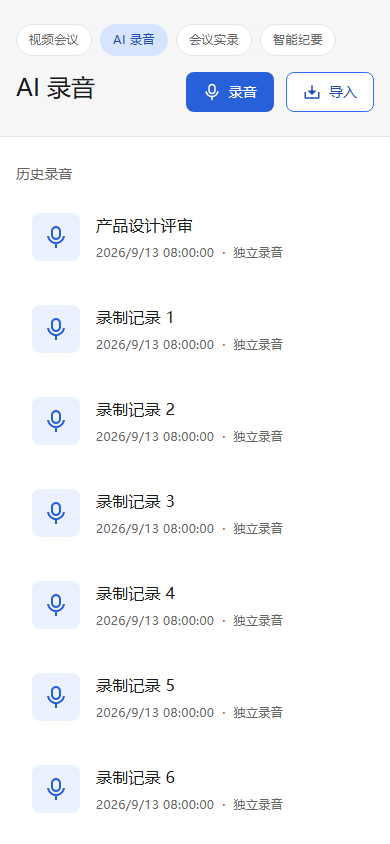
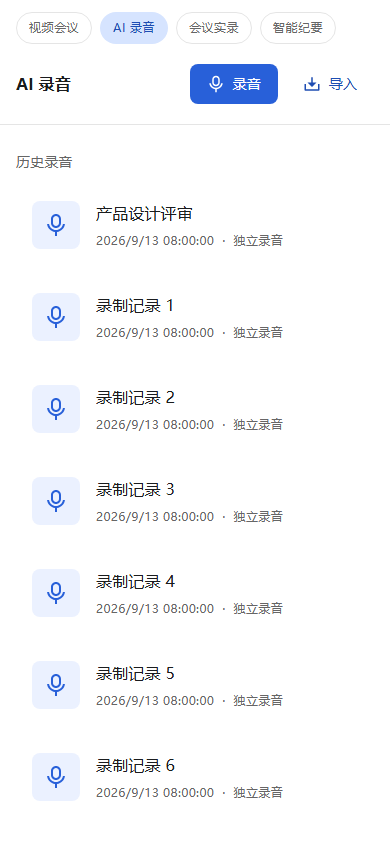
refactor(meetings): restyle the page headers after the chat title bar
参考「消息」模块聊天窗口的标题栏(ChatPane 的 header:paddingX 1rem /
paddingY 0.625rem / 1px 底分割线 / min-height 3rem / 16px bold 标题 /
32px 无边框图标钮),把会议模块页头那一栏收成同一套。改动都在共享样式
libraryStyles,四个栏目页 + 三个次级页一起生效:

- 页头底色:透出页壳浅灰 -> surface.default(白)+ 1px border.subtle 分割线;
- 标题:headlineSmall 24px/400 -> titleMedium 16px/600;
- 垂直内边距:paddingTop xl(24) -> md(12);
- 标题行:align-items flex-start -> center,加 min-height
  controlHeight.large(48),下边距 24 -> 16;
- 动作间距:md(12) -> sm(8);
- 次操作按钮:secondary(线框)-> secondaryText(无边框 + 蓝字,hover 浅底)。

主操作仍是 primary 实心(快速会议 / 录音),文字标签也保留 —— 聊天窗口那栏
是纯图标,但四个页面的按钮带标签是前面几轮特意加的,不在这轮回退。

一处有意偏离 App 规则:page-backgrounds.md §1 写的是「一级页 = 顶部固定区
浅灰 + 下方滚动区白」,这轮按聊天窗口标题栏把固定区改成白。页壳本身仍是
surface.canvas,滚到尽头露出的仍是浅灰。

走查更新/新增:页头那一栏实测底色必须是白、标题 16px 且 font-weight 600、
页头无副标题、页壳与滚动区底色不变。

验证:vitest 160 文件 1033 条、lint / prettier / color / foundation /
tsc / build 全绿;check-meeting-pages-ui.mjs 与 check-meeting-library-ui.mjs
通过;四页桌面 + 390px + 深色截图已更新。

diff --git a/src/frontend/src/features/meetings/components/libraryStyles.ts b/src/frontend/src/features/meetings/components/libraryStyles.ts
@@ -35,11 +35,18 @@ export const pageShell = (surface: 'canvas' | 'default' = 'canvas') =>
 /**
  * 列表以上部分：固定不滚（列表页）。底边分隔线把「固定的工具区」和「滚动的列表」
  * 分开，与任务列表（TasksRoute 的 header/modeTabs）同一套做法。
+ *
+ * **底色 2026-09-17 改为白**（`surface.default`），对齐「消息」模块聊天窗口的标题栏
+ * （`ChatPane` 的 header：paddingX 1rem / paddingY 0.625rem / 1px 底分割线 /
+ * min-height 3rem）：面板头不再铺一级页的浅灰画布色，而是与内容同色，只靠那 1px
+ * 分层。页壳仍是 `surface.canvas`（`pageShell('canvas')`），所以滚动到尽头时露出的
+ * 仍是浅灰 —— 这是与 App「一级页」规则的一处**有意偏离**，以聊天窗口标题栏为准。
  */
 export const pageFixedTop = css({
   flexShrink: 0,
   paddingX: 'lg',
-  paddingTop: 'xl',
+  paddingTop: 'md',
+  backgroundColor: 'surface.default',
   borderBottom: '1px solid token(colors.border.subtle)',
 })
 
@@ -93,14 +100,20 @@ export const backLink = css({
 /**
  * 页面主标题。四个栏目页(home 的 h1、录音、实录、纪要)共用一档,
  * 之前是 1.5rem/bold 与 1.25rem 各自手写,并排切栏目时标题会跳字号。
+ *
+ * **2026-09-17 收到 16px**(`headlineSmall` 24px → `titleMedium`)并加一档字重,
+ * 对齐「消息」模块聊天窗口标题栏的标题(16px / bold):那一栏是面板头,字号比页面
+ * 大标题小一档,页头整体因此矮下来。字重写在这里(而不是新造一个 textStyle):
+ * `textStyle` 展开后本行的显式 `fontWeight` 在后,取的就是 600。
  */
 export const pageTitle = css({
-  textStyle: 'headlineSmall',
+  textStyle: 'titleMedium',
+  fontWeight: 'semibold',
   color: 'text.primary',
   margin: 0,
 })
 
-/** 页面副标题/说明。 */
+/** 页面副标题/说明(次级页仍在用;四个一级页 2026-09-17 起不再有副标题)。 */
 export const pageLead = css({
   textStyle: 'bodyMedium',
   color: 'text.secondary',
@@ -116,25 +129,30 @@ export const pageHeaderText = css({
 })
 
 /**
- * 页头行:左侧标题块,右侧动作组。四个栏目页共用同一档下边距,
- * 此前 1rem / 1.5rem / 1.75rem 三种写法让并排切栏目时内容会上下跳。
+ * 页头行:左侧标题块,右侧动作组。
+ *
+ * 几何对齐聊天窗口标题栏(2026-09-17):**居中**而不是顶对齐、最小高度一档控件
+ * (`controlHeight.large` 48px = 那边 `min-height: 3rem`)、标题行与工具栏之间 16px
+ * (原先 24px)。四个栏目页共用。
  */
 export const pageHeaderRow = css({
   display: 'flex',
   flexWrap: 'wrap',
-  alignItems: 'flex-start',
+  alignItems: 'center',
   justifyContent: 'space-between',
-  gap: 'lg',
-  marginBottom: 'xl',
+  gap: 'md',
+  minHeight: 'controlHeight.large',
+  marginBottom: 'lg',
 })
 
-/** 页头右侧动作组:窄屏换行、右对齐(实录 / 纪要 / 视频会议共用同一档)。 */
+/** 页头右侧动作组:窄屏换行、右对齐(实录 / 纪要 / 视频会议共用同一档)。间距取
+ * 聊天窗口标题栏那一档(8px),图标钮与按钮排在一起时不显散。 */
 export const headerActions = css({
   display: 'flex',
   flexWrap: 'wrap',
   alignItems: 'center',
   justifyContent: 'flex-end',
-  gap: 'md',
+  gap: 'sm',
 })
 
 /** 区块标题(「待开始的会议」「历史会议」这类列表小节标题)。 */

diff --git a/src/frontend/src/features/meetings/components/RecordingUpload.tsx b/src/frontend/src/features/meetings/components/RecordingUpload.tsx
@@ -125,9 +125,10 @@ export function RecordingUpload({
       {/* 只有一种形态了:与另外三个栏目页页头同款的 action 按钮。
           (原先还有一个大入口块的 `tile` 形态,四个页面统一后没有调用点。)
           图标是**向下**的箭头:这一页的动作是「把外部的音视频收进来」,向下的箭头
-          才读得通(向上的 RiUpload2Line 看着像要把东西发出去)。 */}
+          才读得通(向上的 RiUpload2Line 看着像要把东西发出去)。
+          变体是 `secondaryText`:页头那一栏参考聊天窗口标题栏,次操作不再描边。 */}
       <Button
-        variant="secondary"
+        variant="secondaryText"
         size="action"
         icon={<RiDownload2Line size={18} aria-hidden />}
         onPress={() => input.current?.click()}

diff --git a/src/frontend/src/features/home/routes/Home.tsx b/src/frontend/src/features/home/routes/Home.tsx
@@ -289,7 +289,7 @@ export const Home = () => {
                       </Button>
                       <DialogTrigger>
                         <Button
-                          variant="secondary"
+                          variant="secondaryText"
                           size="action"
                           icon={<RiAddBoxLine size={18} aria-hidden />}
                           data-attr="join-meeting"
@@ -299,7 +299,7 @@ export const Home = () => {
                         <JoinMeetingDialog />
                       </DialogTrigger>
                       <Button
-                        variant="secondary"
+                        variant="secondaryText"
                         size="action"
                         icon={<RiTimeLine size={18} aria-hidden />}
                         data-attr="schedule-meeting"

diff --git a/src/frontend/src/features/meetings/routes/MeetingLibrary.tsx b/src/frontend/src/features/meetings/routes/MeetingLibrary.tsx
@@ -795,7 +795,7 @@ export function Library({
               </form>
               {config?.search_ai?.enabled !== false && (
                 <Button
-                  variant="secondary"
+                  variant="secondaryText"
                   size="action"
                   icon={<RiSparklingLine size={18} aria-hidden />}
                   onPress={() => openGlobalSearch('ai', 'meetings')}

diff --git a/CHANGELOG.md b/CHANGELOG.md
@@ -123,13 +123,16 @@ and this project adheres to
   anonymous landing page could never render
 - ♻(frontend) remove the subtitle line from the four meeting module pages so
   their headers carry the title alone
+- ♻(frontend) restyle the meeting module page headers after the chat title
+  bar: white band, 16px title, tighter padding, borderless actions
 
 ### Fixed
 
-- 🩹(deploy) derive image tags from the first nine characters of the full commit
-  SHA in both build-and-push.sh and release-meet.sh. `git rev-parse --short`
-  abbreviates by repository size, so the build host pushed `be9fdcdfe` while the
-  release host deployed the truncated `be9fdcdf` and hit ImagePullBackOff.
+- 🩹(deploy) derive image tags from the first nine characters of the full
+  commit SHA in both build-and-push.sh and release-meet.sh. `git rev-parse
+  --short` abbreviates by repository size, so the build host pushed
+  `be9fdcdfe` while the release host deployed the truncated `be9fdcdf` and hit
+  ImagePullBackOff.
 - 🩹(deploy) verify the selected tag exists in the container registry before
   `helm upgrade`, failing fast on 404 instead of waiting for the rollout
   (`--skip-image-check` opts out; `--dry-run` skips it unless `--image-check`).
